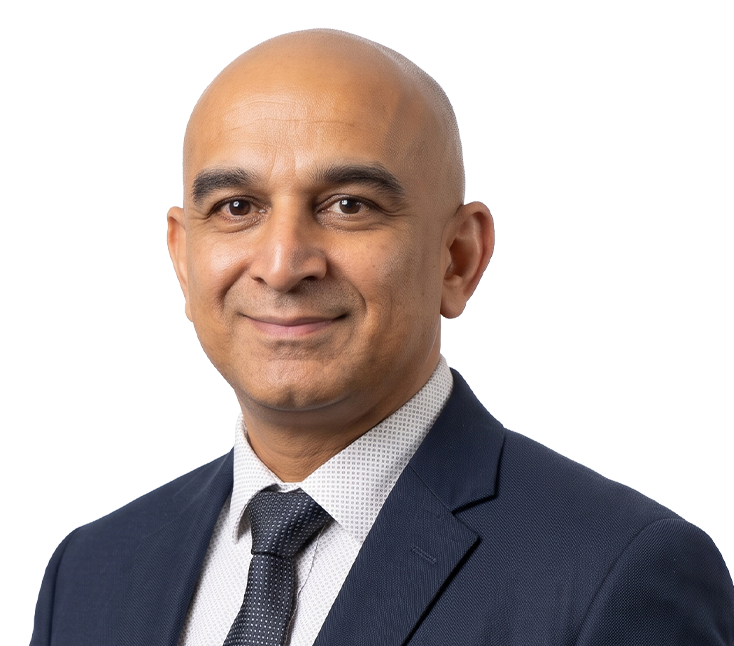
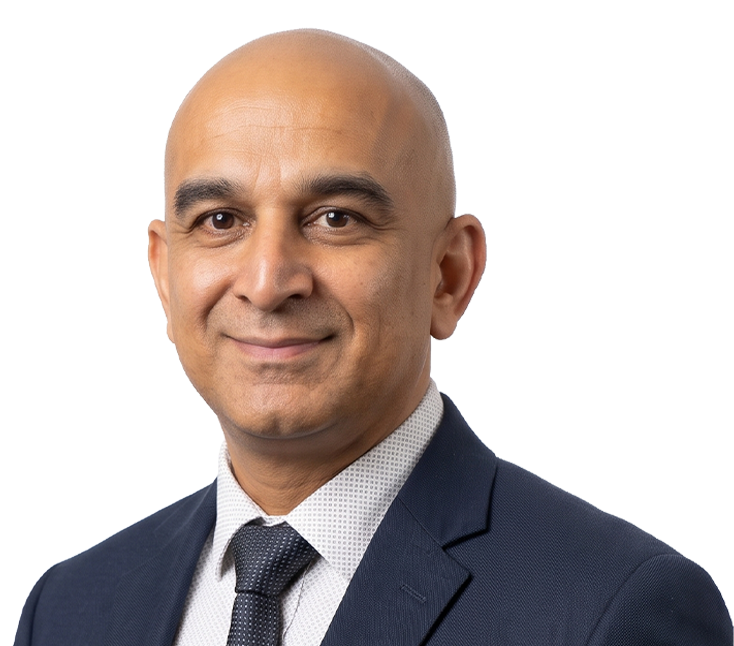
Update team member profiles
Refresh the second team member’s photo and add LinkedIn links for three team members.

Changed region(s): [[0.0, 0.031, 1.0, 1.0]]

diff --git a/src/app/about/page.jsx b/src/app/about/page.jsx
@@ -38,7 +38,7 @@ const teamMembers = [
     image: member1,
     socials: {
       email: "info@pmvmaritime.com",
-      // linkedin: "https://linkedin.com/in/sarahjenkins",
+      linkedin: "https://www.linkedin.com/in/dr-ade-dosunmu-234977131",
       // instagram: "https://instagram.com/sarahjenkins"
     }
   },
@@ -48,7 +48,7 @@ const teamMembers = [
     image: member2,
     socials: {
       email: "info@pmvmaritime.com",
-      // linkedin: "https://linkedin.com/in/elenarostova",
+      linkedin: "https://www.linkedin.com/in/gaurav-chhabra-658948213",
       // x: "https://x.com/elenarostova",
       // website: "https://elenarostova.dev"
     }
@@ -58,7 +58,8 @@ const teamMembers = [
     role: "Master Mariner & Marine Consultant",
     image: member3,
     socials: {
-      email: "info@pmvmaritime.com"
+      email: "info@pmvmaritime.com",
+      linkedin: "https://www.linkedin.com/in/capt-duryodhan-tarai-18205068",
     }
   },
   {
